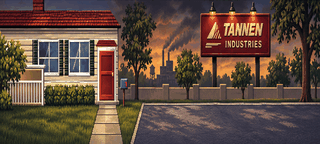
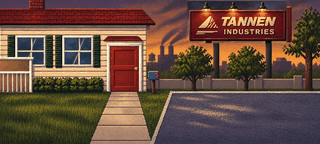
Vorgarten: korrigierte Hintergründe des Nutzers, Anordnung wieder nach Vorlage
Tür, Boden und Auto stehen wieder wie in der Vorlage. Das Nachbarhaus fällt weg,
weil es im Bild nicht mehr vorkommt; dafür sind die beiden Bäume anklickbar.

diff --git a/src/game/rooms/vorgarten.ts b/src/game/rooms/vorgarten.ts
@@ -2,29 +2,29 @@ import type { Hotspot, Polygon, RoomVariant } from '../../engine/types';
 import type { RoomDef } from '../../engine/types';
 import { pickup, rect } from './util';
 
-const SCALE = { yFar: 106, sFar: 0.88, yNear: 140, sNear: 1 };
+const SCALE = { yFar: 94, sFar: 0.88, yNear: 140, sNear: 1 };
 
 /** Um das Auto herum: links, davor, rechts. */
 const WALKABLE: readonly Polygon[] = [
-  [[4, 106], [185, 106], [185, 140], [4, 140]],
-  [[185, 120], [287, 120], [287, 140], [185, 140]],
-  [[287, 106], [316, 106], [316, 140], [287, 140]],
+  [[6, 94], [185, 94], [185, 140], [6, 140]],
+  [[185, 106], [314, 106], [314, 140], [185, 140]],
+  [[287, 94], [314, 94], [314, 106], [287, 106]],
 ];
 
 const COMMON: readonly Hotspot[] = [
   {
     id: 'haus',
     name: 'hotspot.haus',
-    area: rect(0, 0, 118, 104),
-    walkTo: [60, 108],
+    area: [[0, 0], [46, 0], [46, 8], [143, 8], [155, 24], [148, 24], [148, 92], [0, 92]],
+    walkTo: [60, 96],
     face: 'hinten',
     comments: { schauan: 'say.prolog.vorgarten_haus' },
   },
   {
     id: 'haustuer',
     name: 'hotspot.haustuer',
-    area: rect(97, 48, 22, 54),
-    walkTo: [107, 108],
+    area: rect(108, 44, 34, 48),
+    walkTo: [125, 96],
     face: 'hinten',
     comments: { schauan: 'say.prolog.kueche_haustuer' },
     exit: { room: 'kueche', at: [288, 98], face: 'links' },
@@ -32,48 +32,48 @@ const COMMON: readonly Hotspot[] = [
   {
     id: 'briefkasten',
     name: 'hotspot.briefkasten',
-    area: rect(119, 79, 11, 29),
-    walkTo: [125, 110],
+    area: rect(147, 70, 14, 23),
+    walkTo: [152, 96],
     face: 'hinten',
     comments: { schauan: 'say.prolog.vorgarten_briefkasten', oeffne: 'say.prolog.vorgarten_briefkasten_oeffne' },
   },
   {
     id: 'hecke',
     name: 'hotspot.hecke',
-    area: rect(44, 84, 50, 20),
-    walkTo: [68, 108],
+    area: rect(33, 77, 71, 15),
+    walkTo: [68, 96],
     face: 'hinten',
     comments: { schauan: 'say.prolog.vorgarten_hecke' },
   },
   {
     id: 'gartenmauer',
     name: 'hotspot.gartenmauer',
-    area: rect(130, 85, 170, 19),
-    walkTo: [160, 108],
+    area: rect(161, 79, 159, 13),
+    walkTo: [172, 96],
     face: 'hinten',
     comments: { schauan: 'say.prolog.vorgarten_mauer' },
   },
   {
     id: 'baum',
     name: 'hotspot.baum',
-    area: [[248, 0], [320, 0], [320, 42], [316, 42], [316, 104], [300, 104], [300, 42], [248, 42]],
-    walkTo: [305, 108],
+    area: [[253, 0], [320, 0], [320, 45], [311, 45], [311, 92], [298, 92], [298, 45], [253, 45]],
+    walkTo: [305, 96],
     face: 'hinten',
     comments: { schauan: 'say.prolog.vorgarten_baum' },
   },
   {
     id: 'auto',
     name: 'hotspot.auto',
-    area: rect(186, 73, 102, 46),
-    walkTo: [236, 122],
+    area: rect(186, 60, 102, 44),
+    walkTo: [236, 110],
     face: 'hinten',
-    sprite: { key: 'backgrounds/sprites/auto.png', x: 186, y: 72, depthY: 118 },
+    sprite: { key: 'backgrounds/sprites/auto.png', x: 186, y: 59, depthY: 104 },
     comments: { schauan: 'say.prolog.vorgarten_auto', oeffne: 'say.prolog.vorgarten_auto_oeffne' },
   },
   {
     id: 'strasse',
     name: 'hotspot.strasse',
-    area: rect(300, 106, 20, 34),
+    area: rect(300, 92, 20, 48),
     walkTo: [306, 120],
     face: 'rechts',
     comments: { schauan: 'say.prolog.vorgarten_strasse' },
@@ -91,11 +91,11 @@ const tannenburg: RoomVariant = {
     {
       id: 'zeitung',
       name: 'item.zeitung.name',
-      area: rect(70, 110, 20, 12),
-      walkTo: [80, 124],
+      area: rect(76, 103, 20, 12),
+      walkTo: [86, 118],
       face: 'hinten',
       visible: (s) => !s.flags.zeitung_genommen,
-      sprite: { key: 'backgrounds/sprites/zeitung.png', x: 72, y: 112 },
+      sprite: { key: 'backgrounds/sprites/zeitung.png', x: 78, y: 105 },
       comments: { schauan: 'say.k1.zeitung_rasen' },
       verbs: {
         nimm: pickup((g) => {
@@ -107,16 +107,24 @@ const tannenburg: RoomVariant = {
     {
       id: 'werbetafel',
       name: 'hotspot.werbetafel',
-      area: rect(200, 2, 72, 66),
-      walkTo: [236, 122],
+      area: rect(188, 3, 106, 39),
+      walkTo: [236, 110],
       face: 'hinten',
       comments: { schauan: 'say.prolog.vorgarten_werbetafel' },
     },
     {
+      id: 'baeume',
+      name: 'hotspot.baeume',
+      area: rect(175, 44, 90, 16),
+      walkTo: [176, 96],
+      face: 'hinten',
+      comments: { schauan: 'say.prolog.vorgarten_baeume' },
+    },
+    {
       id: 'fabrik',
       name: 'hotspot.fabrik',
-      area: rect(158, 44, 36, 42),
-      walkTo: [176, 108],
+      area: rect(147, 28, 28, 41),
+      walkTo: [160, 96],
       face: 'hinten',
       comments: { schauan: 'say.prolog.vorgarten_fabrik' },
     },
@@ -137,12 +145,12 @@ const normal: RoomVariant = {
   hotspots: [
     ...COMMON,
     {
-      id: 'nachbarhaus',
-      name: 'hotspot.nachbarhaus',
-      area: rect(256, 55, 40, 30),
-      walkTo: [292, 108],
+      id: 'baeume',
+      name: 'hotspot.baeume',
+      area: [[168, 28], [253, 28], [253, 45], [270, 45], [270, 60], [168, 60]],
+      walkTo: [176, 96],
       face: 'hinten',
-      comments: { schauan: 'say.prolog.vorgarten_nachbarhaus' },
+      comments: { schauan: 'say.prolog.vorgarten_baeume' },
     },
     {
       id: 'biff',
@@ -163,11 +171,11 @@ const normal: RoomVariant = {
     {
       id: 'wachsdose',
       name: 'item.wachsdose.name',
-      area: rect(289, 111, 12, 10),
-      walkTo: [295, 124],
+      area: rect(289, 100, 12, 10),
+      walkTo: [292, 112],
       face: 'hinten',
       visible: (s) => s.chapter >= 4 && !s.flags.wachsdose_genommen,
-      sprite: { key: 'backgrounds/sprites/wachsdose.png', x: 290, y: 112, depthY: 120 },
+      sprite: { key: 'backgrounds/sprites/wachsdose.png', x: 290, y: 101, depthY: 110 },
       comments: { schauan: 'say.k4.dose_schau' },
       verbs: {
         nimm: pickup((g) => {
@@ -179,11 +187,11 @@ const normal: RoomVariant = {
     {
       id: 'schluesselbund',
       name: 'hotspot.schluesselbund',
-      area: rect(240, 77, 12, 14),
-      walkTo: [246, 122],
+      area: rect(240, 64, 12, 14),
+      walkTo: [246, 110],
       face: 'hinten',
       visible: (s) => s.chapter >= 4 && !s.flags.einstein_apportiert,
-      sprite: { key: 'backgrounds/sprites/schluesselbund.png', x: 242, y: 79, depthY: 119 },
+      sprite: { key: 'backgrounds/sprites/schluesselbund.png', x: 242, y: 66, depthY: 105 },
       comments: { schauan: 'say.k4.bund_schau' },
       verbs: {
         nimm: async (g) => {
@@ -208,7 +216,7 @@ const normal: RoomVariant = {
           }
           await g.cutscene(async () => {
             await g.say('say.k4.einstein_hol');
-            await g.walkTo([246, 121], 'einstein', 3);
+            await g.walkTo([246, 108], 'einstein', 3);
             await g.sayAs('biff', 'say.k4.biff_prahlt');
             await g.walkTo([60, 126], 'einstein', 3);
             g.setFlag('einstein_apportiert');
@@ -239,8 +247,8 @@ const normal: RoomVariant = {
     {
       id: 'veranda',
       name: 'hotspot.veranda',
-      area: rect(6, 64, 38, 40),
-      walkTo: [24, 108],
+      area: rect(0, 57, 34, 36),
+      walkTo: [18, 96],
       face: 'links',
       visible: (s) => s.chapter >= 4,
       comments: { schauan: 'say.k4.veranda_schau' },

diff --git a/src/game/rooms/kueche.ts b/src/game/rooms/kueche.ts
@@ -125,7 +125,7 @@ export const kueche: RoomDef = {
             walkTo: [288, 94],
             face: 'hinten',
             comments: { schauan: 'say.prolog.kueche_haustuer' },
-            exit: { room: 'vorgarten', at: [107, 110], face: 'vorne' },
+            exit: { room: 'vorgarten', at: [125, 100], face: 'vorne' },
           },
           {
             id: 'lorraine',

diff --git a/src/game/rooms/veranda.ts b/src/game/rooms/veranda.ts
@@ -49,7 +49,7 @@ export const veranda: RoomDef = {
             area: rect(286, 94, 34, 50),
             walkTo: [304, 120],
             face: 'rechts',
-            exit: { room: 'vorgarten', at: [30, 110], face: 'rechts' },
+            exit: { room: 'vorgarten', at: [30, 100], face: 'rechts' },
           },
         ],
       },
